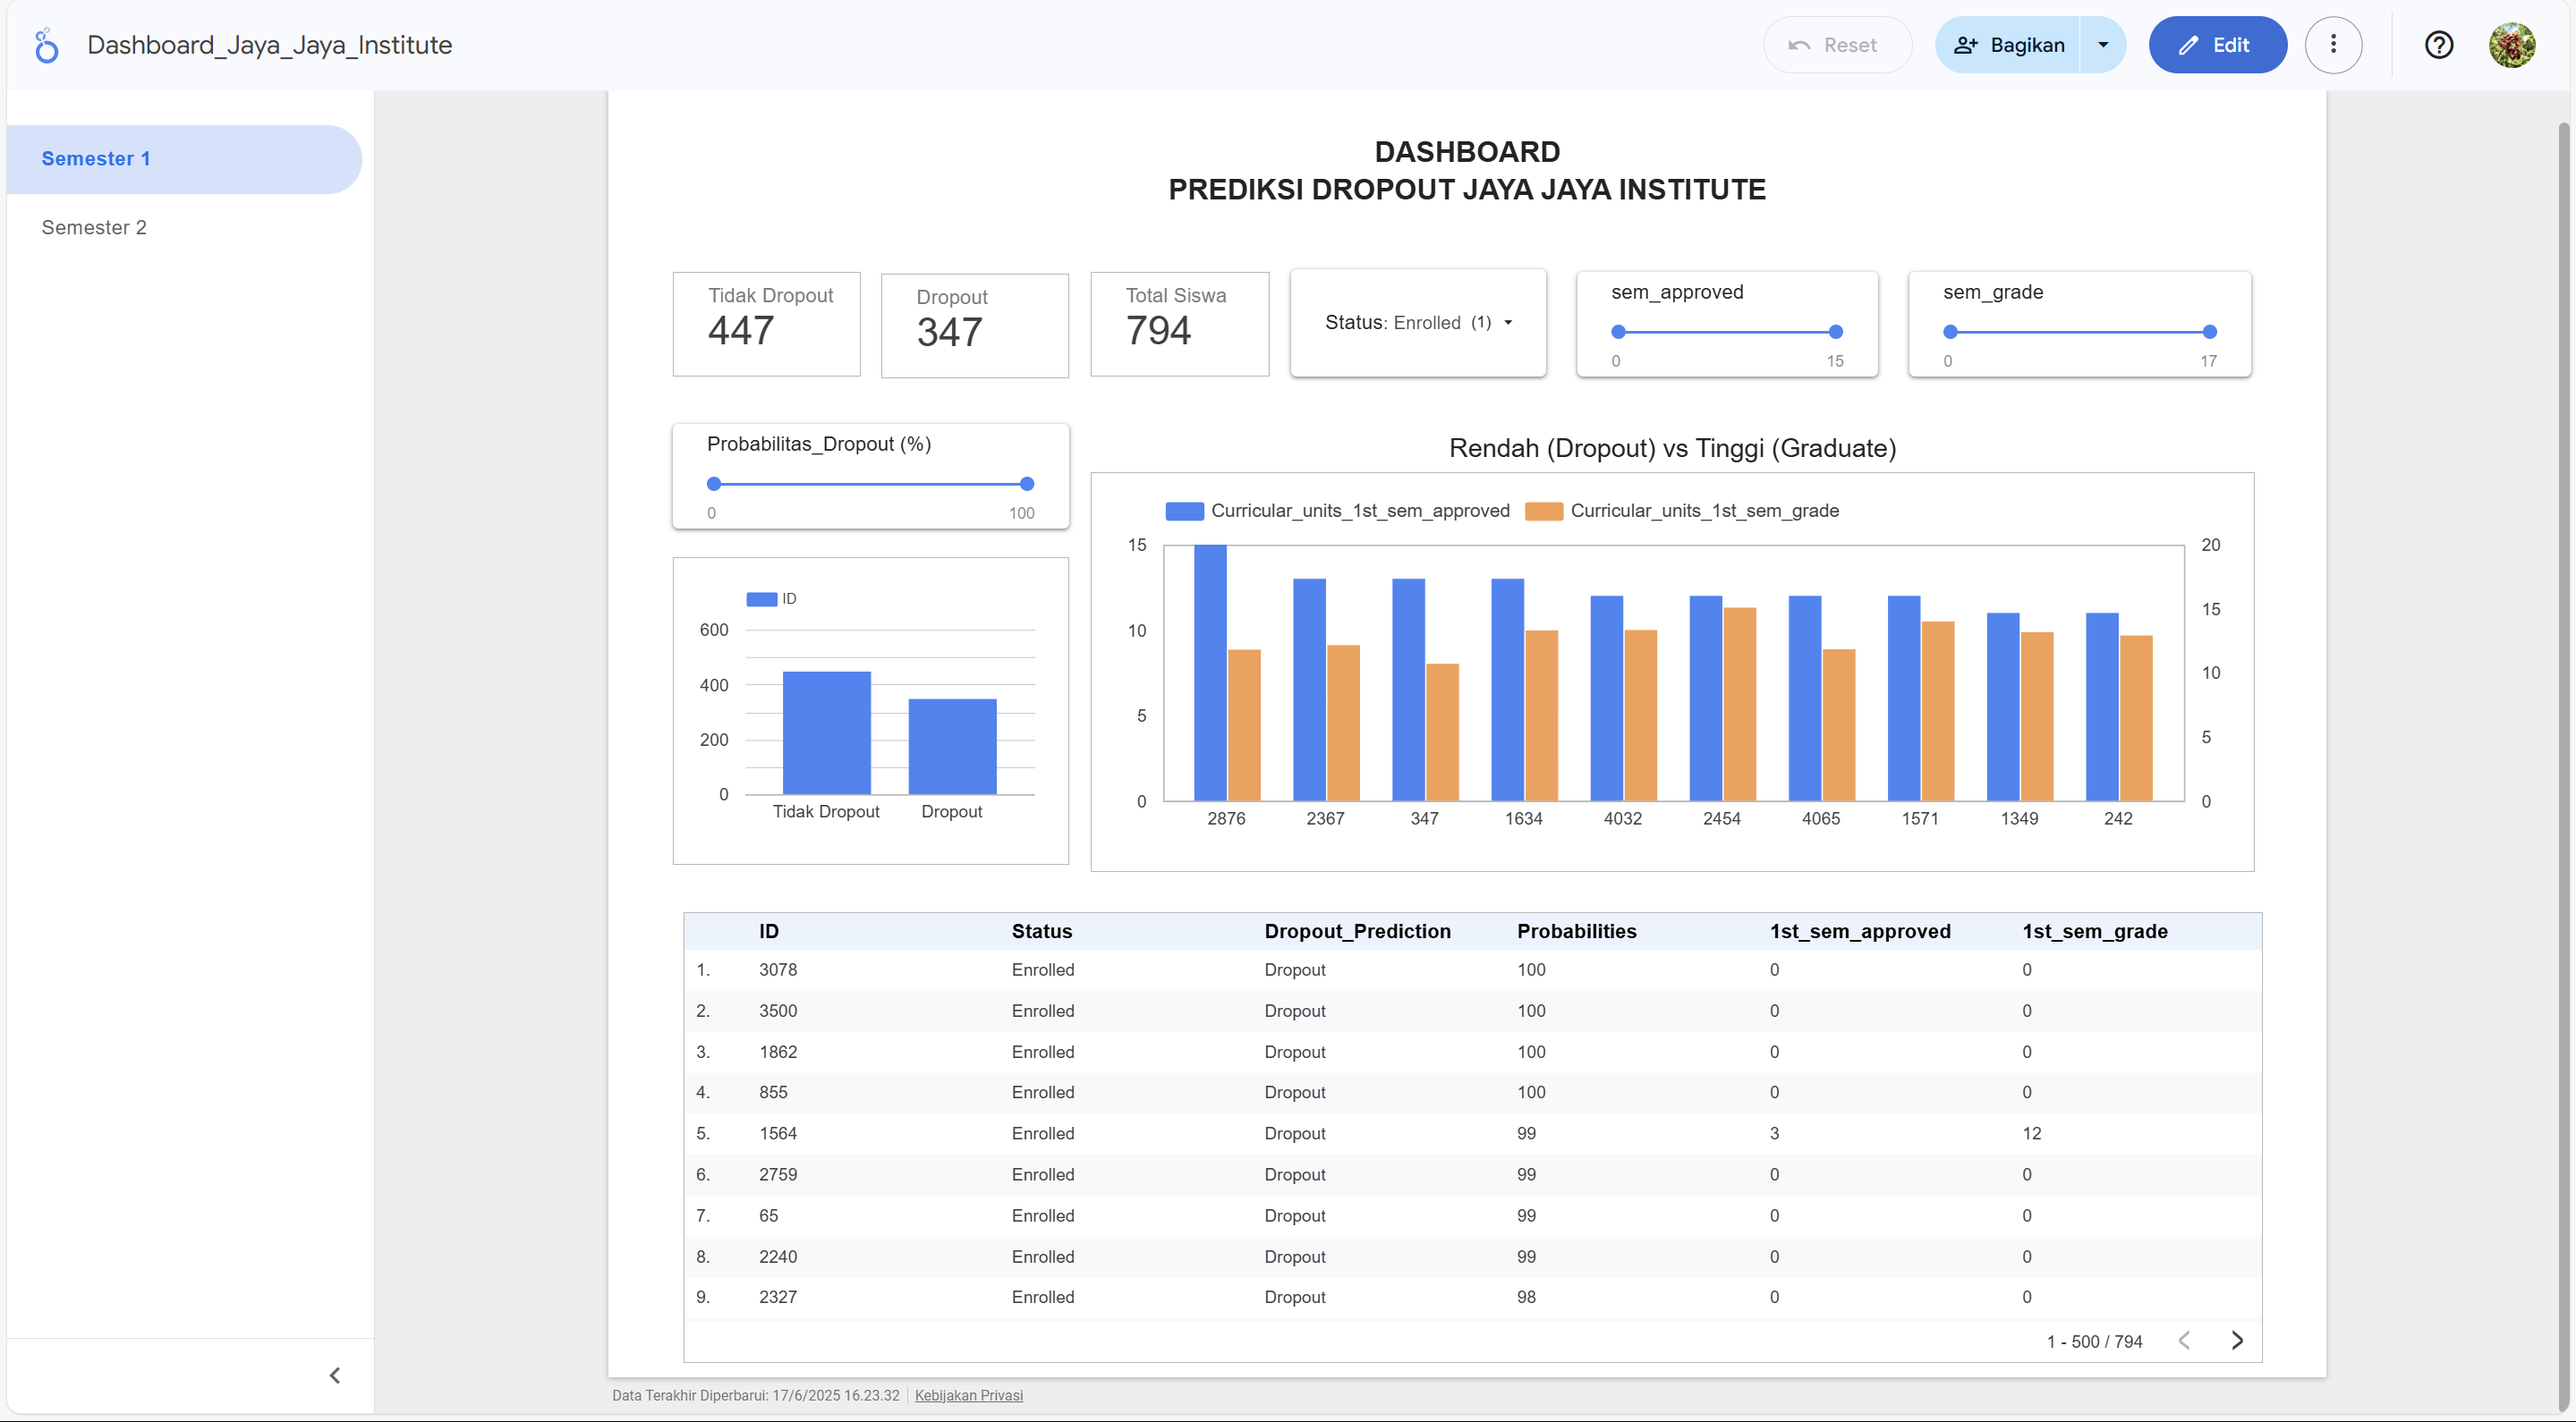
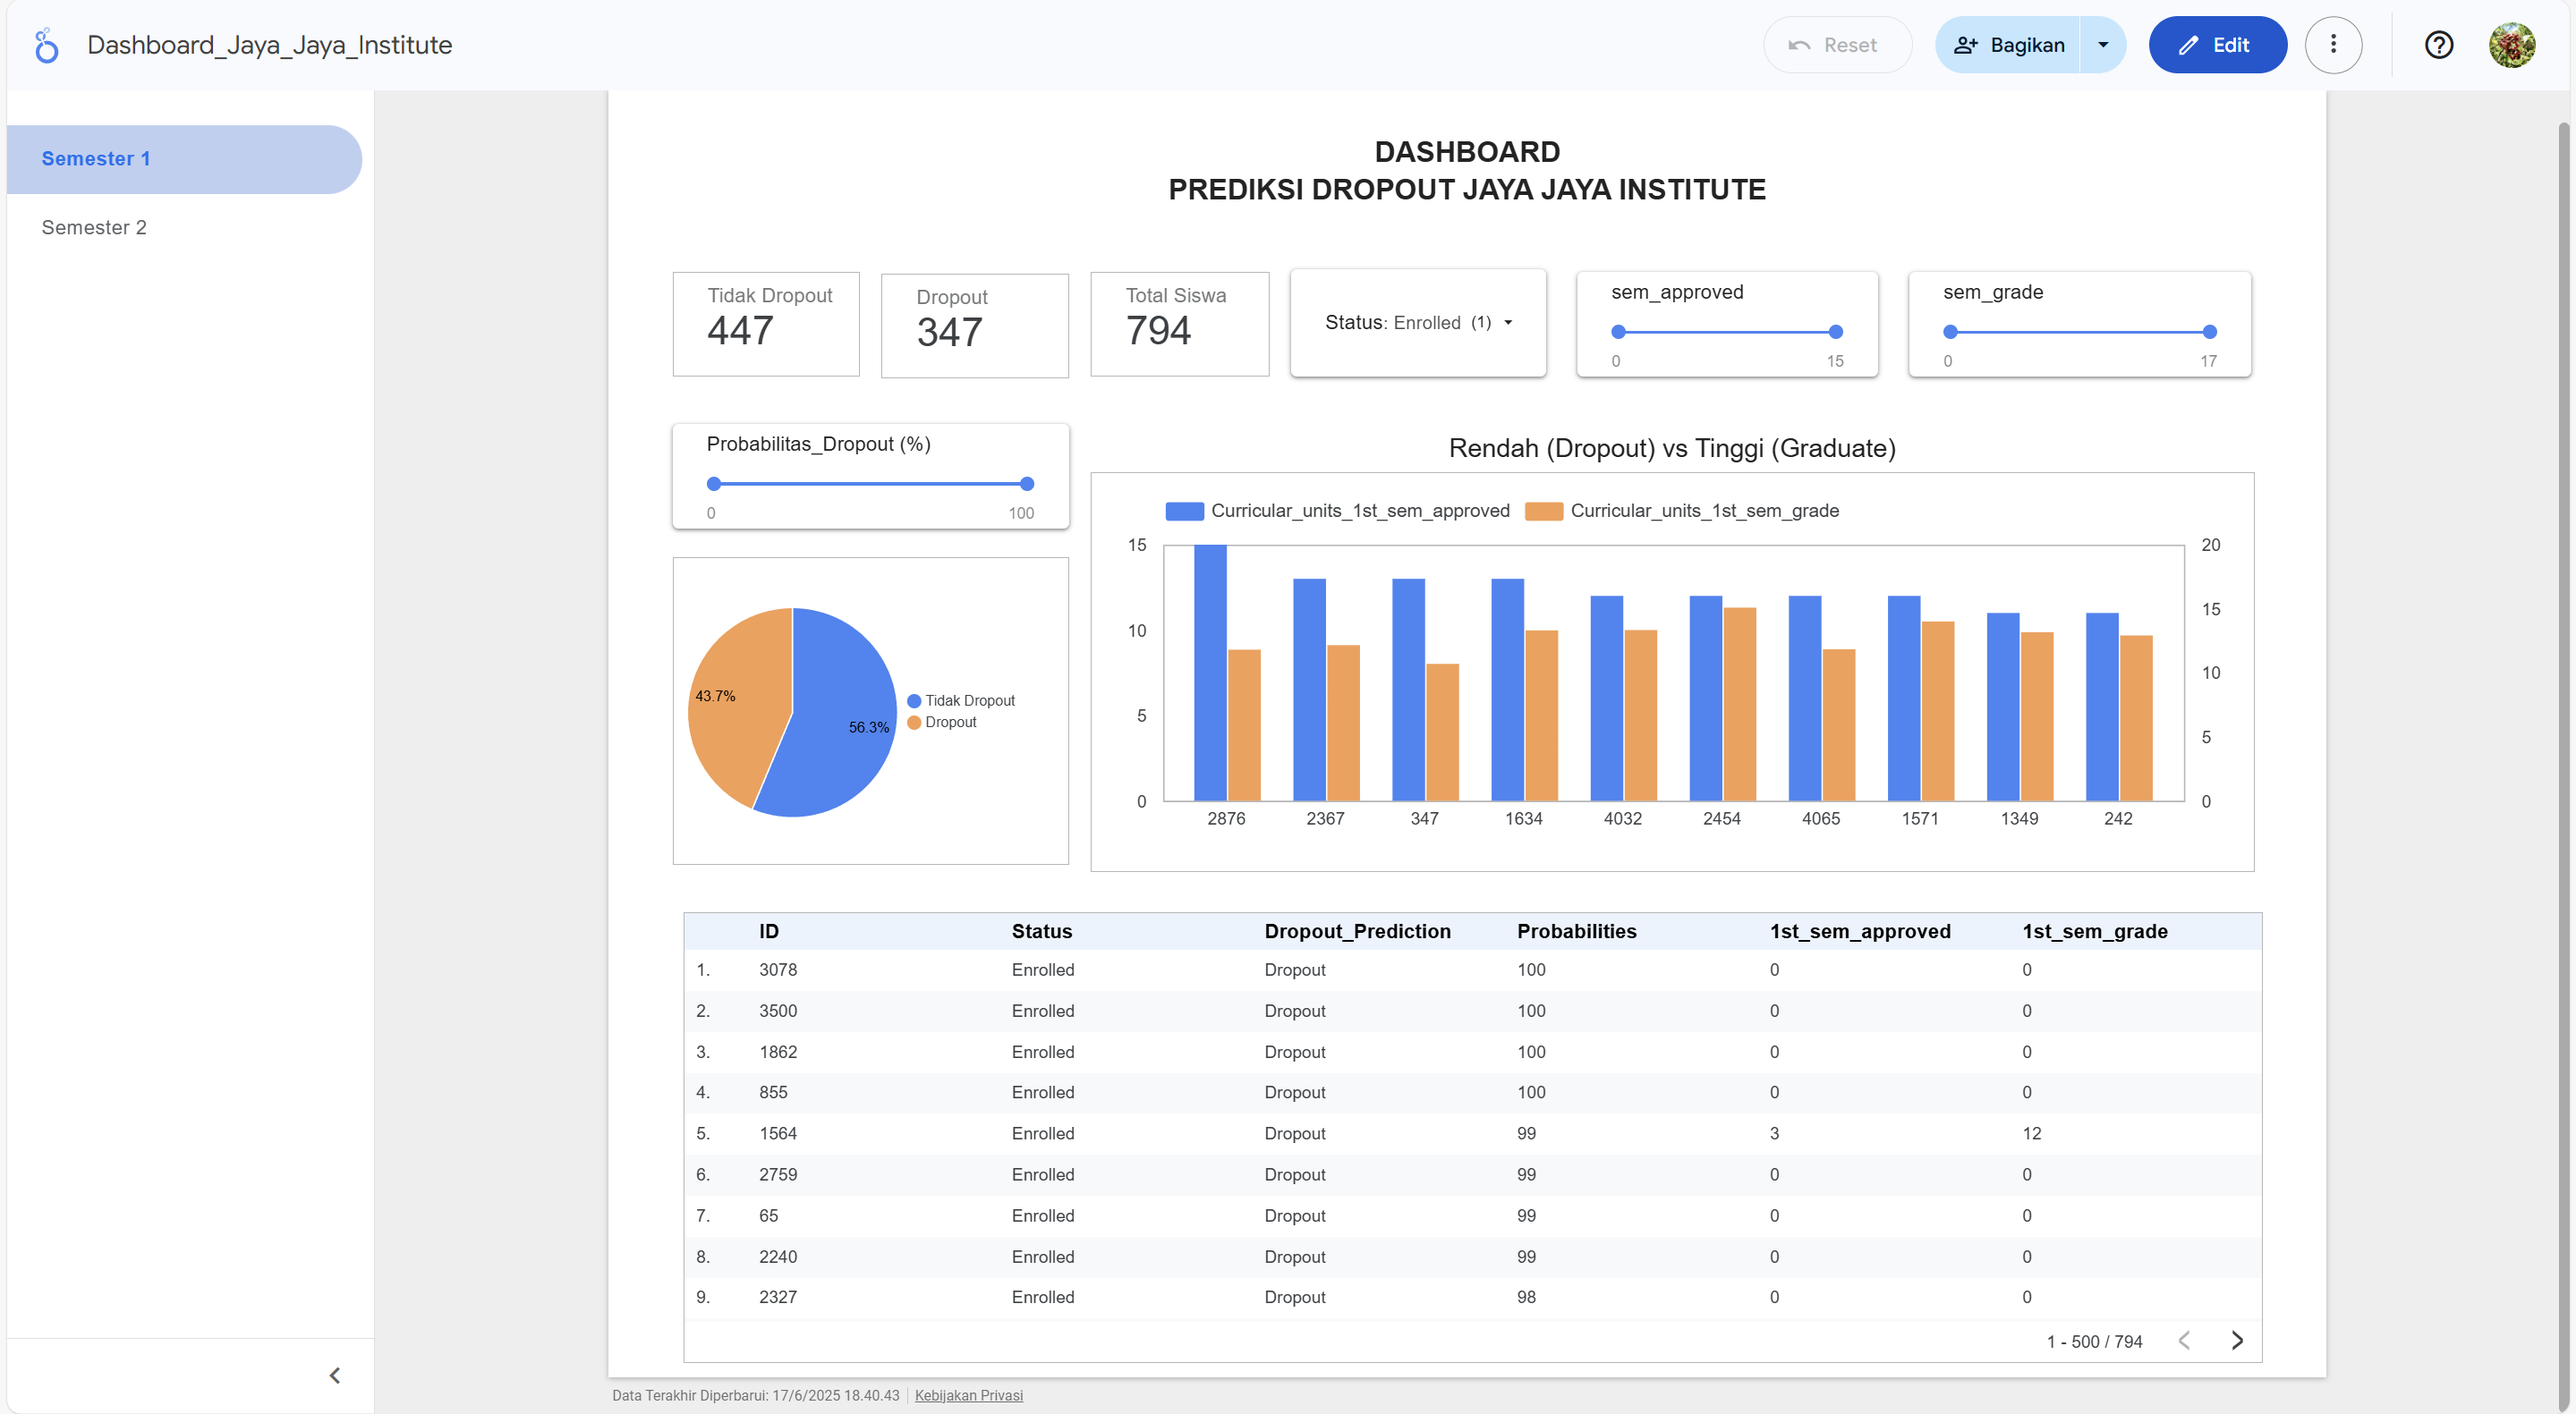
update

diff --git a/laporan_prediksi_dropout.md b/laporan_prediksi_dropout.md
@@ -191,17 +191,21 @@ Dashboard ini dirancang untuk membantu pihak manajemen pendidikan memonitor maha
 
 ---
 
-### Fitur Visualisasi Utama:
+### Fitur Visualisasi:
 
-1. **Menampilkan jumlah mahasiswa berdasarkan tiga kategori: _Graduate_, _Dropout_, dan _Enrolled_.**
+1. **Distribusi performa mahasiswa berdasarkan status**:
 
-2. **Menyediakan segmentasi mahasiswa _Enrolled_ berdasarkan filter probabilitas dropout hasil prediksi model.**
+   - Visualisasi 4 fitur terpenting (`grade` dan `approved` per semester).
+   - Memberikan gambaran umum karakteristik mahasiswa dropout.
 
-3. **Menampilkan Empat fitur yang berkorelasi tertinggi terhadap status dropout:**
-   - **Curricular_units_2nd_sem_approved**
-   - **Curricular_units_2nd_sem_grade**
-   - **Curricular_units_1st_sem_approved**
-   - **Curricular_units_1st_sem_grade**
+2. **Filter interaktif berdasarkan probabilitas dropout, grade dan approve per semester**.
+
+3. **Pie chart prediksi Enrolled**:
+
+   - Untuk 794 mahasiswa Enrolled:
+
+     - 447 (56.3%) diprediksi tidak akan dropout
+     - 347 (43.7%) diprediksi berisiko dropout
 
 ---
 
@@ -251,3 +255,35 @@ Berikan program bimbingan belajar dan pendampingan akademik secara rutin kepada 
 Sistem pembayaran uang kuliah yang fleksibel, pengingat berkala, serta peningkatan distribusi beasiswa kepada mahasiswa yang menunjukkan potensi akademik tetapi rentan secara ekonomi.
 
 ---
+
+## 10. Business Dashboard
+
+### Tools:
+
+Google Looker Studio
+
+### Link:
+
+[Dashboard Dropout Mahasiswa](https://lookerstudio.google.com/reporting/147758c6-e4b2-4611-9481-3943b33c3c0b)
+
+### Fitur Visualisasi:
+
+1. **Distribusi performa mahasiswa berdasarkan status**:
+
+   - Visualisasi 4 fitur terpenting (`grade` dan `approved` per semester).
+   - Memberikan gambaran umum karakteristik mahasiswa dropout.
+
+2. **Filter interaktif berdasarkan probabilitas, grade dan approve setiap semester**.
+
+3. **Pie chart prediksi Enrolled**:
+
+   - Untuk 794 mahasiswa Enrolled:
+
+     - 444 (56%) diprediksi tidak akan dropout
+     - 347 (44%) diprediksi berisiko dropout
+
+### Insight:
+
+- Mahasiswa dengan **nilai semester pertama buruk cenderung dropout**.
+- **Pembayaran tidak tepat waktu** sangat berkorelasi dengan risiko DO.
+- **Penerima beasiswa memiliki peluang kelulusan yang lebih tinggi**.
